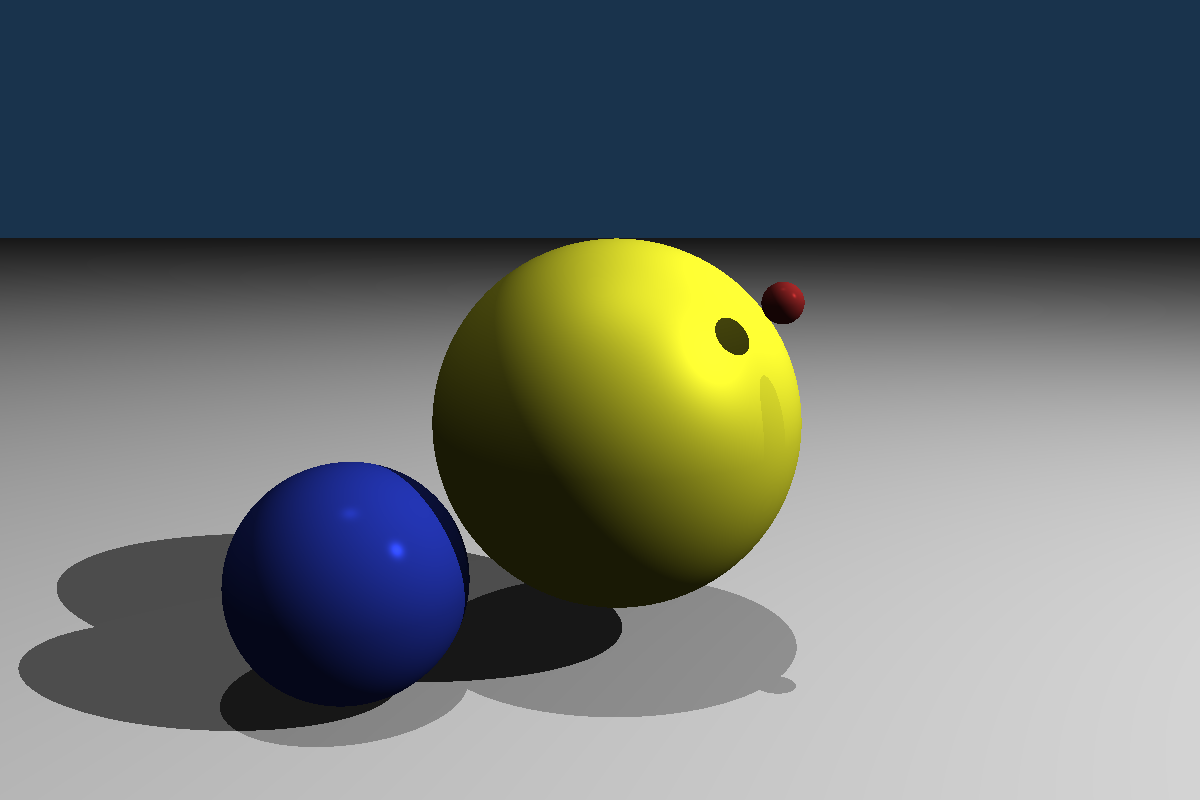
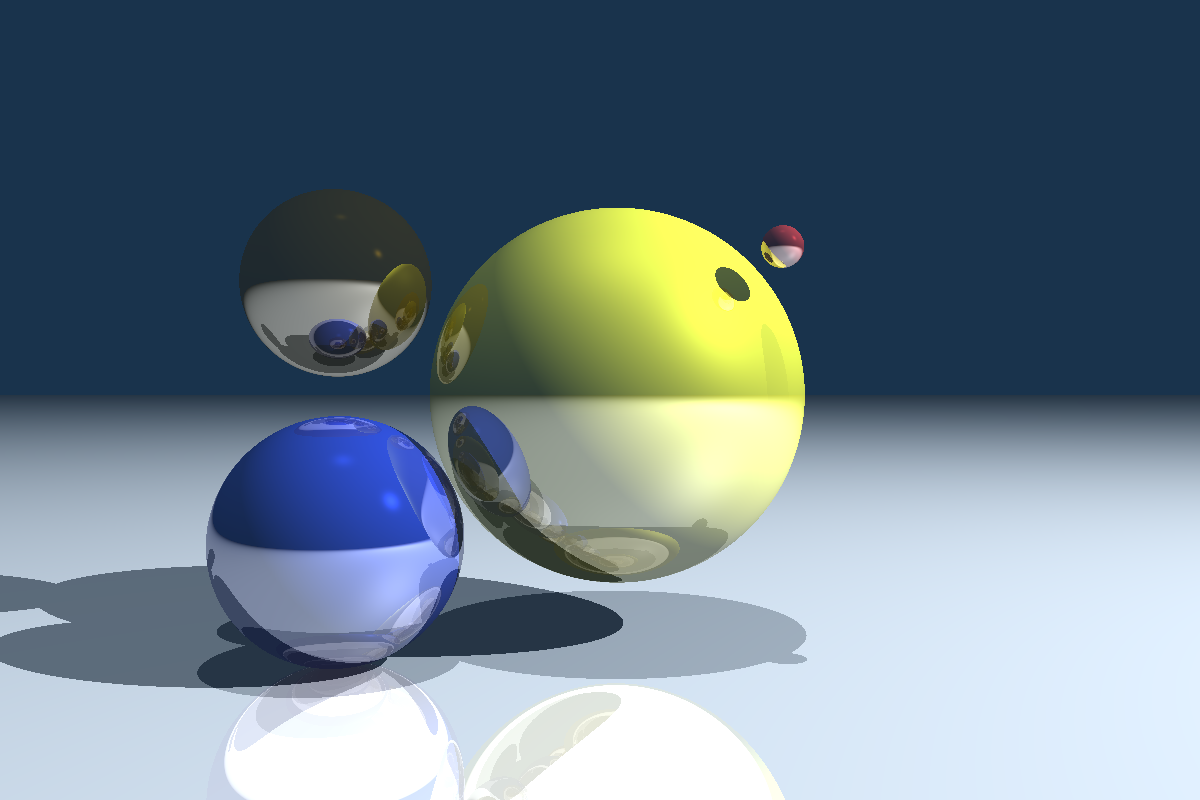
Recursive ray tracing implemented+doc image update

diff --git a/src/rt004/Scene.cs b/src/rt004/Scene.cs
@@ -7,6 +7,7 @@ using System.Security.Cryptography.X509Certificates;
 using Microsoft.Extensions.Logging;
 using OpenTK.Mathematics;
 using Util;
+using static System.Net.Mime.MediaTypeNames;
 
 namespace rt004;
 
@@ -37,14 +38,23 @@ namespace rt004;
  *		 camera's system.
  */
 
+
+
 public class Scene
 {
 	//Some scene properties
 	public Vector3d WorldUpDirection;
     public Vector3d AmbientLighting;
+	public Vector3d BackgroundColor;
     public ProjectionPlane Plane;
     public int PlaneWidthPx;
     public int PlaneHeightPx;
+	public float Kr = 0.6f;
+	public float Kl = 1.0f;
+	public int maxDepth = 8;
+
+
+	
     public int ObjectCount { get { return Objects.Count(); } }
     public int CamCount { get { return Cameras.Count(); } }
 	public int LightSourceCount { get { return LightSources.Count(); } }
@@ -89,6 +99,7 @@ public class Scene
 		AmbientLighting =ColorTools.ArrToV3d(config.SceneConfig.AmbientLighting);
         Plane = new ProjectionPlane(config.PlaneConfig);
 		DisplayShadows = config.SceneConfig.Shadows;
+		BackgroundColor = ColorTools.ArrToV3d(config.SceneConfig.BackgroundColor);
 
 		//Add scene elements based on properties
 		try
@@ -111,7 +122,6 @@ public class Scene
 			logger.LogWarning("Some scene object's properties were not defined, some SceneEnities are added with default parameters");
 			Environment.Exit(1);
 		}
-		
 	}
 
 	/// <summary>
@@ -141,7 +151,6 @@ public class Scene
 
         }
     }
-
 	public void AddObject(SceneObject scene_object)
 	{
 		Objects.Add(scene_object);
@@ -221,34 +230,49 @@ public class Scene
                 ray.Origin = Cam.Position;
                 ray.Direction = ray.Direction = Vector3d.Normalize((Matrix4d.Invert(Cam.CameraTransformMatrix) * new Vector4d(ray.Direction, 1)).Xyz - ray.Origin);
 
-                for (int i=0;i<Objects.Count();i++)
-				{
-					//If the ray intersects the object, set pixel color value to the object's value, else black.
-					float[]? intersections = Objects[i].Intersection(ray);
-					if (intersections != null)
-					{
-                        ray.Intersections.Add(Objects[i], intersections);
-					}
-				}
-				SceneObject? sO = ray.FirstIntersectedObject;
-				if (sO == null)
-					image.PutPixel(w, h, new float[] { 0.1f,0.2f,0.3f});
-				else
-				{
-					List<SceneObject> otherObjects = new List<SceneObject>(Objects);
-					otherObjects.Remove(sO);
-					//Calculate reflected color values
-					Vector3d pixel_color = new Vector3d();
-					if(DisplayShadows)
-						pixel_color = sO.Material.GetReflectedColor(ray, AmbientLighting, LightSources,otherObjects);
-					else
-						pixel_color= sO.Material.GetReflectedColor(ray, AmbientLighting, LightSources);
-                    float[] fin_color = ColorTools.V3dToArr(pixel_color);
-					image.PutPixel(w,h,fin_color);
-				}
+				int Depth = 0;
+				Vector3d pxColor = RecursiveRayTrace(ray,Depth);
+				image.PutPixel(w, h,ColorTools.V3dToArr(pxColor));
             }
 		}
 		return image;
+	}
+
+	private Vector3d RecursiveRayTrace(Ray ray,int depth)
+	{
+        Vector3d pixel_color = Vector3d.Zero;
+        for (int i = 0; i < Objects.Count(); i++)
+        {
+			//Calculate ray intersections
+            float[]? intersections = Objects[i].Intersection(ray);
+            if (intersections != null)
+            {
+                ray.Intersections.Add(Objects[i], intersections);
+            }
+        }
+        SceneObject? sO = ray.FirstIntersectedObject;
+		if (sO == null)
+			return BackgroundColor;
+		else
+		{
+            //Calculate reflected color values
+            if (DisplayShadows)
+			{
+				List<SceneObject> otherObjects = new List<SceneObject>(Objects);
+				otherObjects.Remove(sO);
+				pixel_color += Kl * sO.Material.GetReflectedColor(ray, AmbientLighting, LightSources, otherObjects);
+			}
+			else
+				pixel_color += Kl * sO.Material.GetReflectedColor(ray, AmbientLighting, LightSources);
+
+			if (depth++ >= maxDepth)
+				return pixel_color;
+			
+            Vector3d ReflectedRayDirection = 2 * Vector3d.Dot(ray.Direction, sO.SurfaceNormal(ray)) * sO.SurfaceNormal(ray) - ray.Direction;
+            Ray ReflectedRay = new Ray(ray.GetRayPoint(ray.FirstIntersection), -ReflectedRayDirection);
+            pixel_color += Kr * RecursiveRayTrace(ReflectedRay, depth);
+		}
+		return pixel_color;
 	}
 }
 
@@ -703,15 +727,15 @@ public class Sphere:SceneObject
 		{
 			float t1 = (float)((-b - Math.Sqrt(discriminant)) / 2 * a);
 			float t2 = (float)((-b + Math.Sqrt(discriminant)) / 2 * a);
-			if (t1 >0)
+			if (t1 >Globals.ROUNDING_ERR)
 				intersectionPoints.Add(t1);
-			if (t2 > 0)
+			if (t2 > Globals.ROUNDING_ERR)
 				intersectionPoints.Add(t2);
 		}
 		else if (discriminant == 0)
 		{
 			float t = (float)(-b / 2 * a);
-			if (t > 0)
+			if (t > Globals.ROUNDING_ERR)
 				intersectionPoints.Add(t);
 			
 		}
@@ -731,7 +755,8 @@ public class Sphere:SceneObject
 		if (!ray.Intersections.ContainsKey(this))
 		{
 			float[]? intersections = Intersection(ray);
-			ray.Intersections.Add(this, intersections);
+			if(intersections!=null)
+				ray.Intersections.Add(this, intersections);
 		}
 		Vector3d first_intersection=ray.GetRayPoint(ray.FirstIntersection);
 		return Vector3d.Normalize(Center - first_intersection);
@@ -772,14 +797,13 @@ public class Plane : SceneObject, SurfaceProperties
     public override float[]? Intersection(Ray ray)
     {
         float denominator = (float)Vector3d.Dot(ray.Direction, SurfaceNormal(ray));
-        if (denominator >0 )
+        if (denominator >Globals.ROUNDING_ERR )
         {
             float numerator = (float)Vector3d.Dot((Position - ray.Origin), SurfaceNormal(ray));
-			if(numerator>0)
+			if(numerator/denominator>Globals.ROUNDING_ERR)
                 return new float[] { numerator / denominator };
 		}
         return null;
-
     }
 
     /// <summary>
@@ -791,11 +815,7 @@ public class Plane : SceneObject, SurfaceProperties
 	{
         //If the angle is larger than 90 degrees, that means the ray is on that side of the 
         //plane 
-        /*if (!ray.Intersections.ContainsKey(this))
-        {
-            float[]? intersections = Intersection(ray);
-            ray.Intersections.Add(this, intersections);
-        }*/
+        
         double angle = Vector3d.CalculateAngle(Normal, ray.Direction);
 		if (angle > Math.PI / 2.0 && angle<-Math.PI/2.0)
 			return Normal;

diff --git a/src/rt004/Shading.cs b/src/rt004/Shading.cs
@@ -20,7 +20,7 @@ public class Phong:ReflectanceModel
 {
     public float k_s,k_d,k_a,alpha;
 
-    public Phong(float k_s, float k_d, float k_a, float alpha)
+    public Phong(float k_a, float k_d, float k_s, float alpha)
     {
         this.k_s = k_s;
         this.k_d = k_d;
@@ -74,7 +74,6 @@ public class Phong:ReflectanceModel
                     continue; 
             }
             
-
             Vector3d incoming_light_direction = light.CastRay(intersection_point).Direction;
             Vector3d refleced_light_direction = 2 * Vector3d.Dot(incoming_light_direction, surface_normal) * surface_normal - incoming_light_direction;
 
@@ -112,6 +111,5 @@ public class Phong2 : Material
 public class Phong3 : Material
 {
     public ReflectanceModel getReflectance { get { return new Phong(0.4f, 0.6f, 0.1f, 80); } }
-
 
 }

diff --git a/src/rt004/Config.cs b/src/rt004/Config.cs
@@ -71,6 +71,8 @@ public class SceneConfig
     public float[] WorldUpDirection { get; set; }
     public bool Shadows { get; set; }
 
+    public float[] BackgroundColor { get; set; }
+
     public readonly List<SceneObject> SceneObjects=new List<SceneObject>();
     public readonly List<LightSource> LightSources = new List<LightSource>();
     public void Init()

diff --git a/src/rt004/Program.cs b/src/rt004/Program.cs
@@ -11,6 +11,12 @@ using Microsoft.Extensions.Logging.Configuration;
 
 namespace rt004;
 
+
+public class Globals
+{
+    public const float ROUNDING_ERR = 1e-5f;
+}
+
 internal class Program
 {
   

diff --git a/DOC.md b/DOC.md
@@ -7,7 +7,7 @@ The ray tracer implementation for the course Photorealistic Graphics at Charles 
 The program generates an image with a circle inside with the diameter of the size of the shorter side, and interpolates between 2 colors inside 
 the circle with the pixel height.  
 
-It generates another image based on path tracing, which is saved as PathTrace.pfm . The initial image can be modified from the config file. The default image has the same scene properties as the sample image for checkpoint 8. The reason the image is flipped is probably caused by how I use the coordinate systems. The default path traced image is below. 
+It generates another image based on path tracing, which is saved as PathTrace.pfm . The initial image can be modified from the config file. The default image has the same scene properties as the sample image for checkpoint 11. The reason the image is flipped is probably caused by how I use the coordinate systems. This image will be updated based on the latest result of the ray tracer. 
 
 ![pt_image](PathTrace.png "The default path traced image")
 
